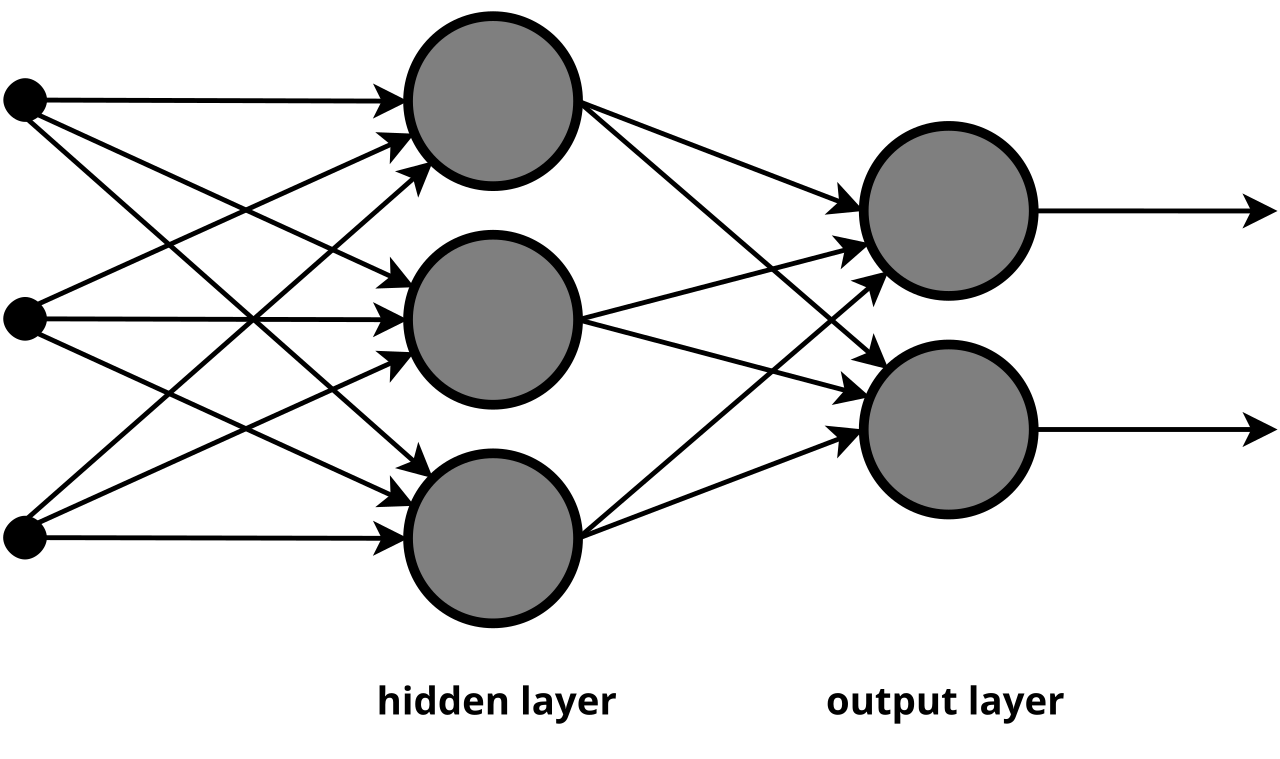
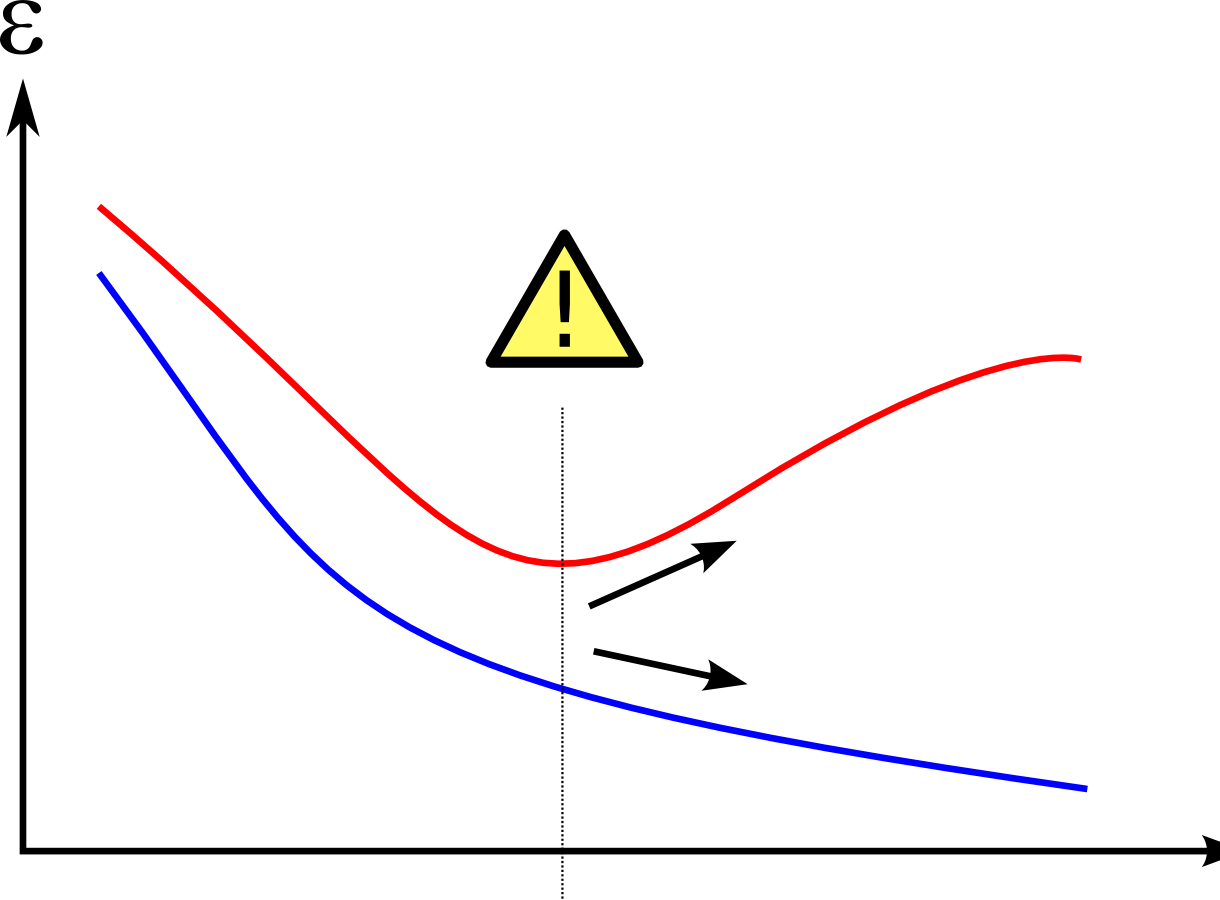
Replace ACSP talk image and refine credits

diff --git a/content/image-credits.md b/content/image-credits.md
@@ -2,12 +2,12 @@
 title: Image credits
 ---
 
-The following featured images are used under the licenses listed. Images are stored with the page bundles; captions on each page provide creator, source, license, and adaptation notes.
+The following featured images are used under the licenses listed. Images are illustrative visuals, not source data or documentary images of the specific research or events. They are stored with the page bundles; captions on each page provide creator, source, license, and adaptation notes.
 
-| Page | Image and creator | Source | License | Adaptation | Local file SHA-256 |
-| --- | --- | --- | --- | --- | --- |
[5 lines of base64/hex data omitted]
+| Page | Image and creator | Source | License | Adaptation |
+| --- | --- | --- | --- | --- |
+| [Statistical Models vs Machine Learning: A Reflection with Two Case Studies](/events/acsp2017/) | *Overfitting*, Dake (Dake~commonswiki) | [Wikimedia Commons file page](https://commons.wikimedia.org/wiki/File:Overfitting.png) · [original PNG](https://upload.wikimedia.org/wikipedia/commons/f/fc/Overfitting.png) | [CC BY-SA 3.0](https://creativecommons.org/licenses/by-sa/3.0/) | Cropped and resized for display |
+| [Land Use Models for Regional Planning and Growth Management](/events/usp549f17/) | *Portland OR aerial*, Dicklyon | [Wikimedia Commons file page](https://commons.wikimedia.org/wiki/File:Portland_OR_aerial.jpg) · [original JPEG](https://upload.wikimedia.org/wikipedia/commons/3/3d/Portland_OR_aerial.jpg) | [CC BY-SA 4.0](https://creativecommons.org/licenses/by-sa/4.0/) | Cropped and resized for display |
+| [De-Transformation Bias in Non-linear Trip Generation Models](/publications/detransformation-bias-trip-generation/) | *High Five Interchange*, dherrera_96; crop/visibility changes by Beyond My Ken | [Wikimedia Commons file page](https://commons.wikimedia.org/wiki/File:High_Five_Interchange.jpg) · [original JPEG](https://upload.wikimedia.org/wikipedia/commons/3/39/High_Five_Interchange.jpg) · [original Flickr source](https://www.flickr.com/photos/56181704@N00/471801087) | [CC BY 2.0](https://creativecommons.org/licenses/by/2.0/) | Commons derivative crop/visibility adjustments; cropped and resized for display |
+| [Housing location choices of the poor: does access to jobs matter?](/publications/housing-location-choices-of-the-poor/) | *CTA MM Kimball brown*, Daniel Schwen | [Wikimedia Commons file page](https://commons.wikimedia.org/wiki/File:CTA_MM_Kimball_brown.jpg) · [original JPEG](https://upload.wikimedia.org/wikipedia/commons/0/03/CTA_MM_Kimball_brown.jpg) | [CC BY-SA 4.0](https://creativecommons.org/licenses/by-sa/4.0/) | Cropped and resized for display |
+| [Measuring the State of Open Science in Transportation Using Large Language Models](/publications/open-science-transportation-llms/) | *CERN Server 03*, Florian Hirzinger (www.fh-ap.com) | [Wikimedia Commons file page](https://commons.wikimedia.org/wiki/File:CERN_Server_03.jpg) · [original JPEG](https://upload.wikimedia.org/wikipedia/commons/d/d7/CERN_Server_03.jpg) | [CC BY-SA 3.0](https://creativecommons.org/licenses/by-sa/3.0/) | Cropped and resized for display |

diff --git a/content/publications/open-science-transportation-llms/index.md b/content/publications/open-science-transportation-llms/index.md
@@ -19,7 +19,7 @@ publication:
 featured: true
 image:
   alt_text: Rows of servers in a CERN computing room.
-  caption: 'CERN Server 03, by Florian Hirzinger (www.fh-ap.com), via [Wikimedia Commons](https://commons.wikimedia.org/wiki/File:CERN_Server_03.jpg), [CC BY-SA 3.0](https://creativecommons.org/licenses/by-sa/3.0/). Resized for display. This is an illustrative research-computing image, not a depiction of infrastructure used in the paper; see [image credits](/image-credits/).'
+  caption: 'Illustrative research-computing image: CERN Server 03, by Florian Hirzinger (www.fh-ap.com), via [Wikimedia Commons](https://commons.wikimedia.org/wiki/File:CERN_Server_03.jpg), [CC BY-SA 3.0](https://creativecommons.org/licenses/by-sa/3.0/). Cropped and resized for display; see [image credits](/image-credits/).'
 abstract: |
   Open science initiatives have strengthened scientific integrity and accelerated research progress across many fields, but the state of their practice within transportation research remains under-investigated. Key features of open science, defined here as data and code availability, are difficult to extract due to the inherent complexity of the field. Previous work has either been limited to small-scale studies due to the labor-intensive nature of manual analysis or has relied on large-scale bibliometric approaches that sacrifice contextual richness. This paper introduces an automatic and scalable feature-extraction pipeline to measure code and data availability in transportation research. We employ Large Language Models (LLMs) for this task and validate their performance against a manually curated dataset and through an inter-rater agreement analysis. We applied this pipeline to examine 10,724 research articles published in the Transportation Research Part series of journals between 2019 and 2024. Our analysis found that only 5% of quantitative papers shared a code repository, 4% of quantitative papers shared a data repository, and about 3% of papers shared both, with trends differing across journals, topics, and geographic regions. We found no significant difference in citation counts or review duration between papers that provided data and code and those that did not, suggesting a misalignment between open science efforts and traditional academic metrics. Consequently, encouraging these practices will likely require structural interventions from journals and funding agencies to supplement the lack of direct author incentives. The pipeline developed in this study can be readily scaled to other journals, representing a critical step toward the automated measurement and monitoring of open science practices in transportation research.
 links:

diff --git a/content/publications/detransformation-bias-trip-generation/index.md b/content/publications/detransformation-bias-trip-generation/index.md
@@ -11,8 +11,8 @@ publication:
   name: Journal of Urban Planning and Development
 featured: true
 image:
-  alt_text: Aerial view of the High Five Interchange in Dallas, Texas.
-  caption: 'High Five Interchange, by dherrera_96, via [Wikimedia Commons](https://commons.wikimedia.org/wiki/File:High_Five_Interchange.jpg), [CC BY 2.0](https://creativecommons.org/licenses/by/2.0/). Cropped and resized for display; see [image credits](/image-credits/).'
+  alt_text: Vehicles traveling beneath the elevated roadways of the High Five Interchange in Dallas.
+  caption: 'Illustrative transportation image: High Five Interchange, by dherrera_96, via [Wikimedia Commons](https://commons.wikimedia.org/wiki/File:High_Five_Interchange.jpg), [CC BY 2.0](https://creativecommons.org/licenses/by/2.0/). Cropped and resized for display; see [image credits](/image-credits/).'
 math: true
 abstract: |
   In recent years, there have been substantial efforts from researchers and practitioners to improve the trip generation model in order to address some of the pitfalls of conventional approaches. These new trip generation models often adopt sophisticated non-linear model forms to utilize new information and incorporate new factors influencing trip generation. However, if sufficient caution is not taken in their application, these new trip generation models may generate severe biases. Two typical sources of biases in the applications of such models are aggregation bias and detransformation bias. The former arises when aggregate variables are included in an individual-level model or when naive aggregation of independent variables are conducted in prediction from a non-linear model, and the latter when de-transforming a non-linearly transformed dependent variable in the prediction process (e.g. predicting from a semi-log model). While these two types of biases are well known and corrections routinely suggested in other disciplines (Wooldridge, 2012, pp212-215) or even in other models of travel demand (Ortuzar and Willumsen, 2011), they have not been adopted in the new trip generation models. In this paper, we describe and demonstrate these two sources of biases with numeric simulations and empirical analyses, before discussing their implications and remedies in applications in the context of modeling trip generation.

diff --git a/content/events/acsp2017/index.md b/content/events/acsp2017/index.md
@@ -12,8 +12,8 @@ authors:
   - me
 featured: true
 image:
-  alt_text: Diagram of a multi-layer neural network with three input nodes, two hidden layers, and two output nodes.
-  caption: 'Multi-Layer Neural Network-Vector, by Offnfopt, via [Wikimedia Commons](https://commons.wikimedia.org/wiki/File:Multi-Layer_Neural_Network-Vector.svg), [CC0 1.0](https://creativecommons.org/publicdomain/zero/1.0/). Rasterized to PNG for display; see [image credits](/image-credits/).'
+  alt_text: Illustration of training error falling while validation error rises after its minimum, showing overfitting.
+  caption: 'Illustrative model-generalization diagram: Overfitting, by Dake (Dake~commonswiki), via [Wikimedia Commons](https://commons.wikimedia.org/wiki/File:Overfitting.png), [CC BY-SA 3.0](https://creativecommons.org/licenses/by-sa/3.0/). Cropped and resized for display; see [image credits](/image-credits/).'
 math: true
 abstract: |
   Previous applications in the urban planning field heavily lean toward the artificial intelligence approach for developing decision support system (for example, @tanic_urban_1986 and @silva_dna_2004). In this paper, I first define and introduce the two approaches to data analysis (what), and explain why/where both approaches have their appeal. I then demonstrate when and how each approach has its strength and weakness through two case studies with real data. In the first case study, I show that imputing missing data for the National Household Travel Survey with machine learning techniques enables more robust regression analysis while capturing the uncertainties introduced in the imputation process. In the second case study, again with the NHTS data, I show how machine learning algorithms facilitate variable selection and consideration of non-linear and interaction effects, which can help inform estimations of regression models, and when machine learning techniques can replace or complement statistical models. Through a review of the development of machine learning methods and their applications in social science and two case studies with actual data commonly used in transportation research, I hope to show the value of machine learning to planning researchers.

diff --git a/content/publications/housing-location-choices-of-the-poor/index.md b/content/publications/housing-location-choices-of-the-poor/index.md
@@ -11,8 +11,8 @@ publication:
   name: Housing Studies
 featured: true
 image:
-  alt_text: A Chicago Transit Authority train at the Kimball station.
-  caption: 'CTA at Kimball, by Daniel Schwen, via [Wikimedia Commons](https://commons.wikimedia.org/wiki/File:CTA_MM_Kimball_brown.jpg), [CC BY-SA 4.0](https://creativecommons.org/licenses/by-sa/4.0/). Resized for display; see [image credits](/image-credits/).'
+  alt_text: A Kimball-bound Chicago Brown Line train leaving Merchandise Mart station.
+  caption: 'Illustrative transit image: Chicago Brown Line train, by Daniel Schwen, via [Wikimedia Commons](https://commons.wikimedia.org/wiki/File:CTA_MM_Kimball_brown.jpg), [CC BY-SA 4.0](https://creativecommons.org/licenses/by-sa/4.0/). Cropped and resized for display; see [image credits](/image-credits/).'
 math: true
 abstract: |
   This research investigates whether access to jobs affects poor households’ residential location choices using data from individual households in the Chicago Metropolitan Area. Our results, based on discrete choice models, show that the effects of job accessibility on household location choices are contingent upon households’ automobile ownership and employment status. Places with higher job accessibility by public transit mode are more likely to attract poor households that do not own cars but have at least one employed worker or one labour force participant, while job accessibility by automobile travel mode has no positive effect on the location choices of poor households who own automobiles. The results stress the importance of job accessibility for those poor households with limited transportation mobility but strong needs for access to jobs.

diff --git a/content/events/usp549f17/index.md b/content/events/usp549f17/index.md
@@ -11,7 +11,7 @@ authors:
 featured: true
 image:
   alt_text: Aerial view of downtown Portland, Oregon, with the Willamette River and bridges.
-  caption: 'Portland, Oregon aerial view, by Dicklyon, via [Wikimedia Commons](https://commons.wikimedia.org/wiki/File:Portland_OR_aerial.jpg), [CC BY-SA 4.0](https://creativecommons.org/licenses/by-sa/4.0/). Resized for display; see [image credits](/image-credits/).'
+  caption: 'Illustrative regional-planning image: Portland, Oregon aerial view, by Dicklyon, via [Wikimedia Commons](https://commons.wikimedia.org/wiki/File:Portland_OR_aerial.jpg), [CC BY-SA 4.0](https://creativecommons.org/licenses/by-sa/4.0/). Cropped and resized for display; see [image credits](/image-credits/).'
 math: true
 abstract: |
   This guest lecture contrasts community-oriented regional visioning with predictive land-use models, explains how land-use models support growth-management and transportation planning, and reviews the evolution and practical application of these models. It uses examples from the Puget Sound Regional Council and Metro in the Portland region to show how model forecasts connect policy scenarios, land-use change, and transportation-system analysis.
